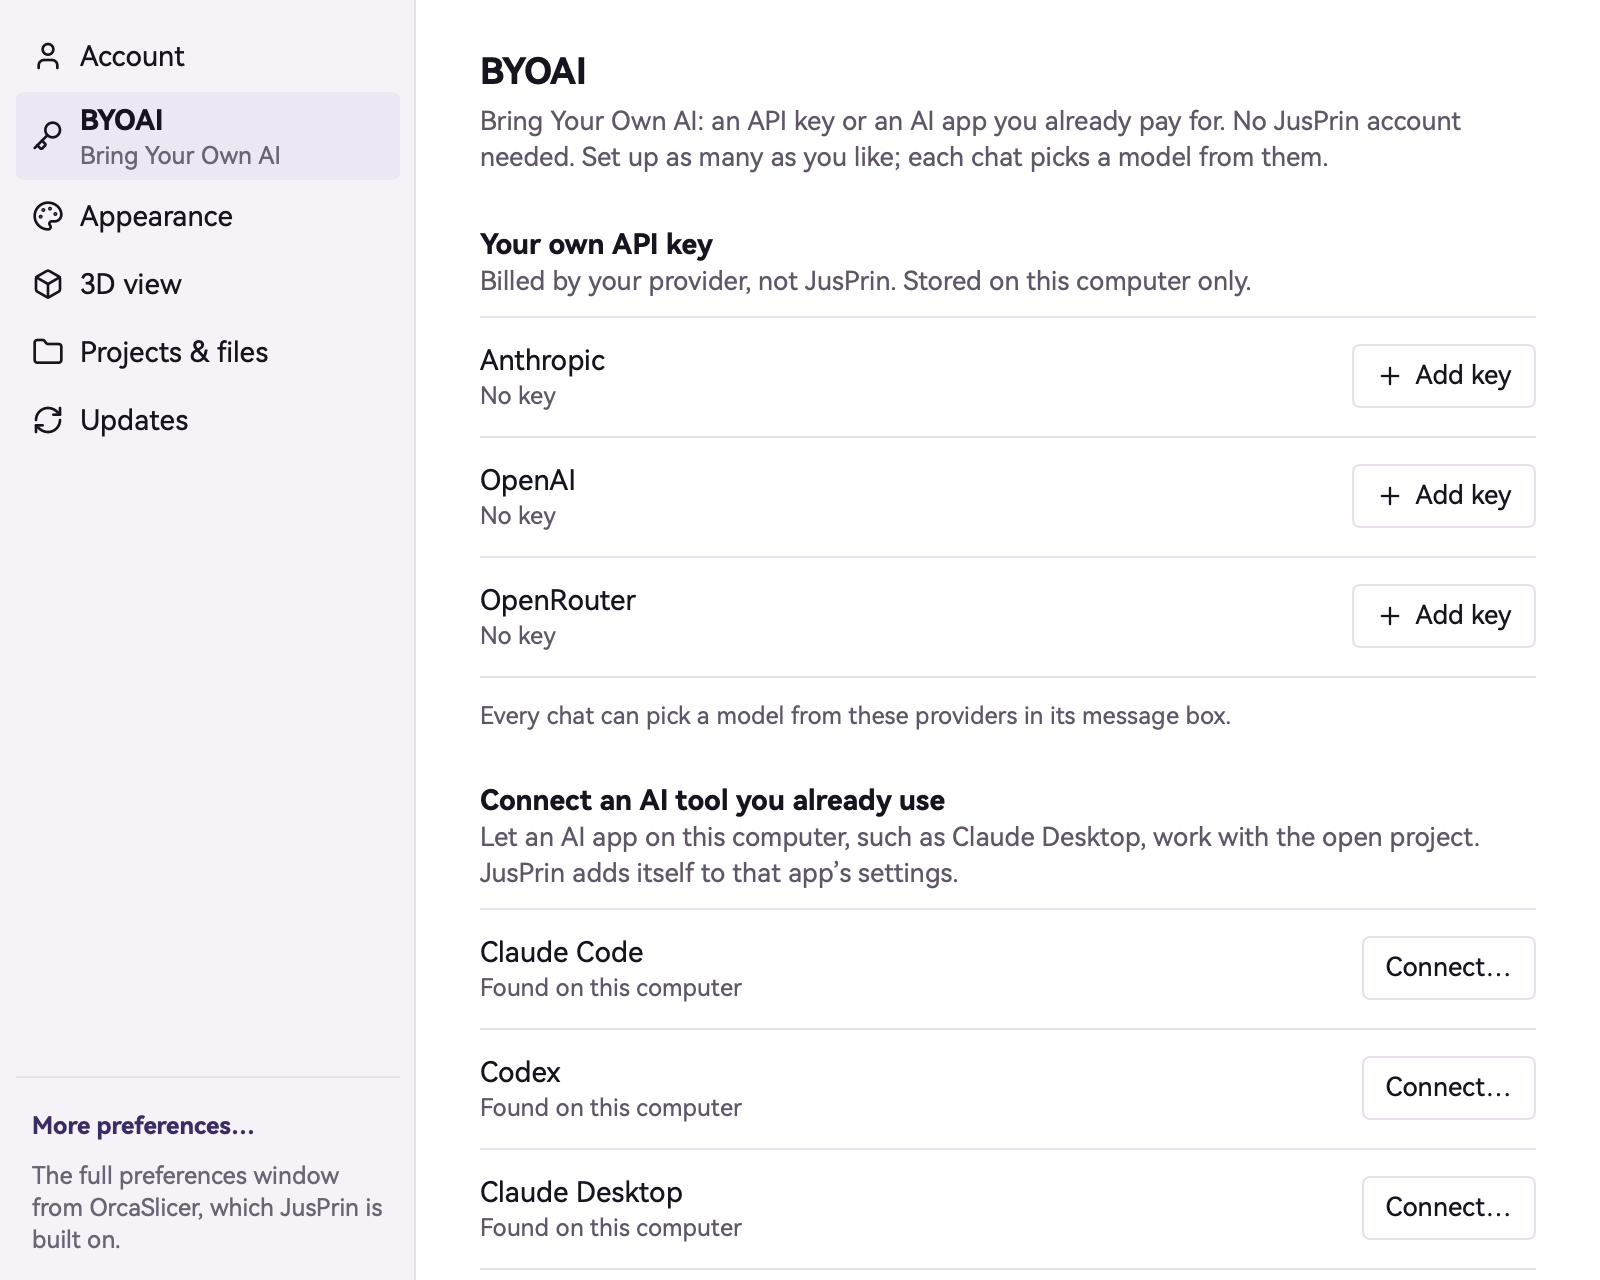
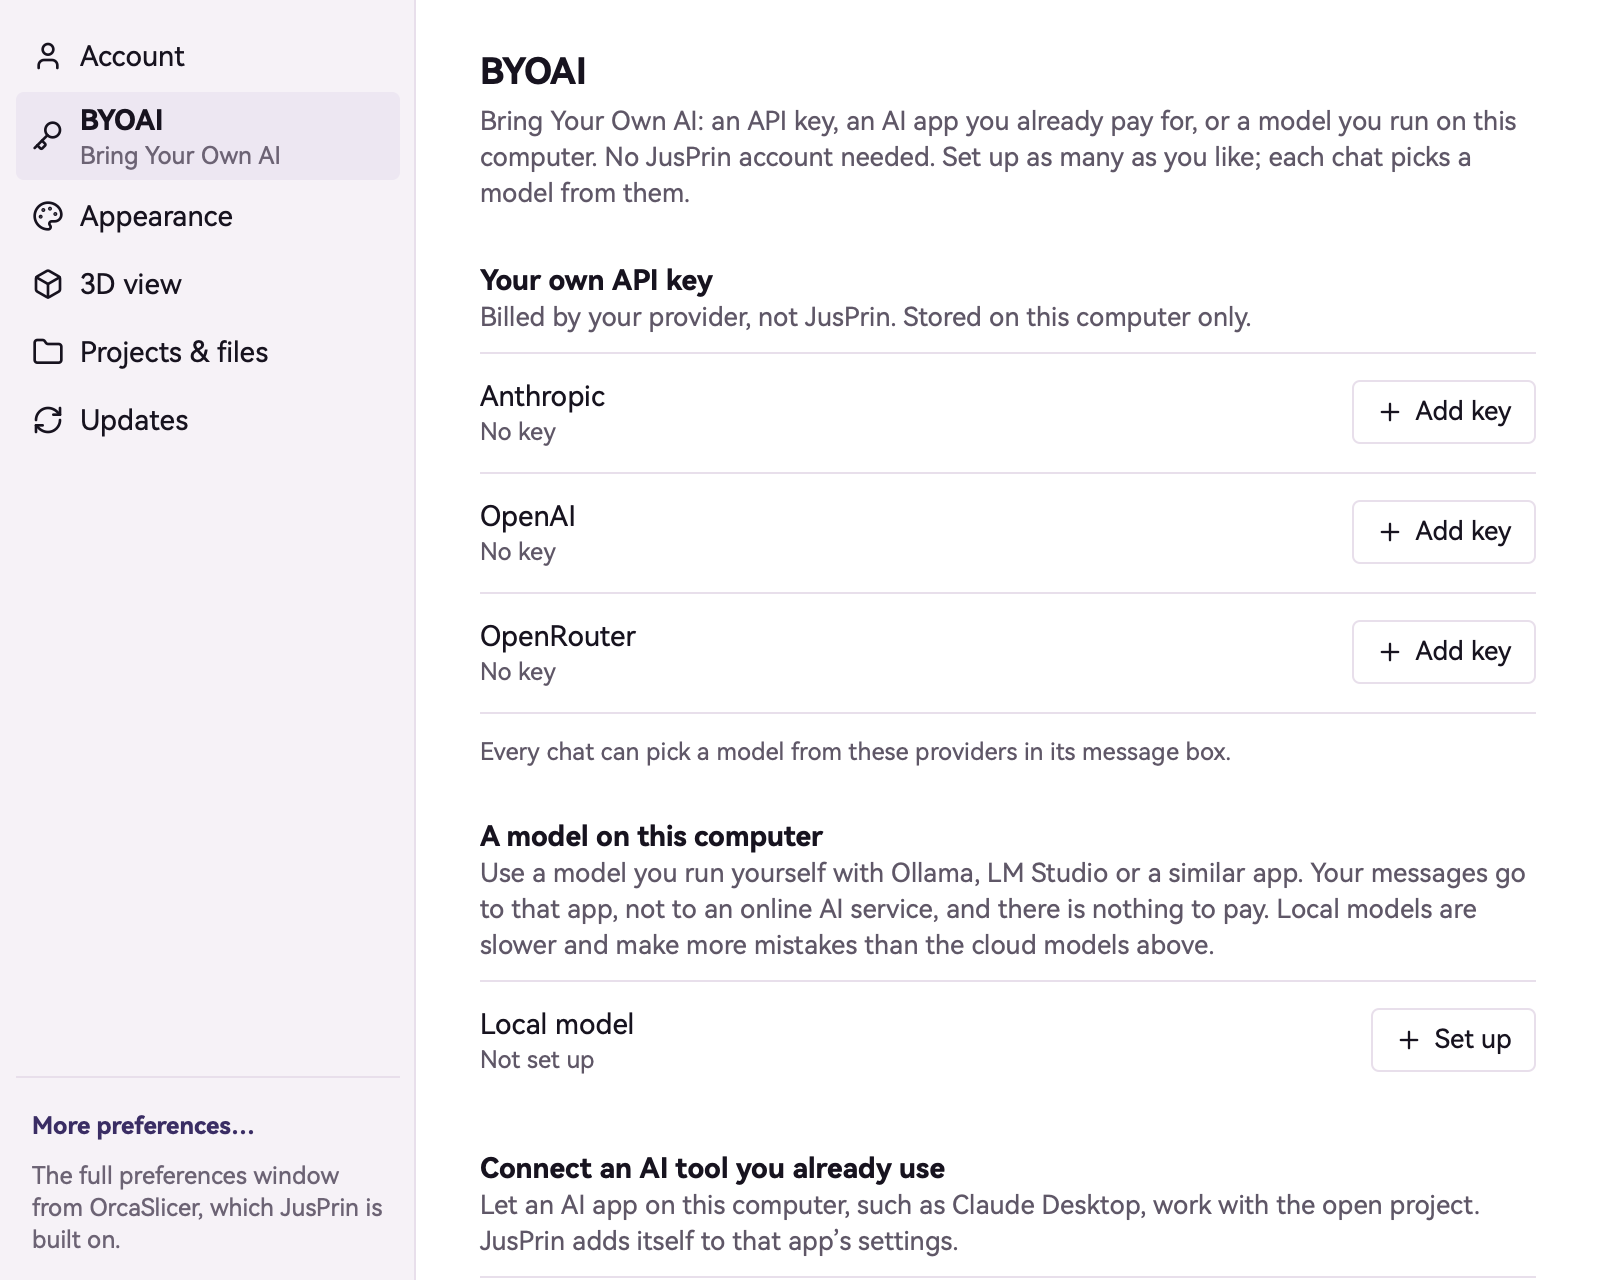
JusPrin 2.1.0
Set the version to 2.1.0 and add its release notes. Kenneth chose the
version ("let's tag this release as 2.1.0") and approved the notes ("go
with your proposed release notes"; for the two local-model lines,
"Approve both").

The guide's printer page now names the fields the printer chat's form
asks for when connecting Flashforge, PrusaLink and Repetier printers, and
says that switching printer or filament drops the project's setting
changes after saving a version. The guide-printers-and-filament skill and
the pictures were rebuilt by check_guide.py --ask-ai, which passed for
2.1.0. The translation catalogs were already current.

Entire-Checkpoint: 01M8CAN7PT1C47D1J0D2CPJ0NS

diff --git a/src/slic3r/GUI/JusPrin/Updates/Version.hpp b/src/slic3r/GUI/JusPrin/Updates/Version.hpp
@@ -11,7 +11,7 @@ namespace Slic3r::GUI::JusPrin::Updates {
 // from SoftFever_VERSION, OrcaSlicer's version, which this build keeps
 // because 3MF projects, profile updates, the user_backup-v<version> folder
 // and AppConfig's upgrade logic all read it.
-inline constexpr char kVersion[] = "2.0.1";
+inline constexpr char kVersion[] = "2.1.0";
 
 // The version a problem report or a saved chat names: JusPrin's and the
 // OrcaSlicer release it is built on, as "JusPrin 2.0.0 (OrcaSlicer 2.5.0)".

diff --git a/src/slic3r/GUI/JusPrin/Packaging/release-notes/2.1.0.md b/src/slic3r/GUI/JusPrin/Packaging/release-notes/2.1.0.md
@@ -1,0 +1,42 @@
+JusPrin 2.1.0 can run its AI chats on a model on your own computer, lets AI add holes and parts to your models, and tells you clearly what to do when your own AI account refuses a request.
+
+## New
+
+- **AI on your own computer.** Chats can run on a model in Ollama or LM Studio, with no account and no credits. Set it up in Preferences › BYOAI › A model on this computer: press Find models, pick one, and press Use this model. JusPrin checks that the model can use the app's tools and has a context of at least 32k. It then shows under "On this computer" in each chat's model menu. Web search is not available for these chats, and a model that cannot see pictures is sent none. When Ollama or LM Studio refuses, for example because the model was deleted, JusPrin shows its words.
+- **AI can add holes and parts.** Ask AI for a screw hole, a slot, a peg or a lip, and it adds boxes or cylinders to your object, as solid parts or as holes. One Undo removes them. Asked for text or a logo, AI gives you the steps to add it yourself; a logo must be an SVG file.
+- **AI can change your printer's hardware settings,** such as the bed size, the nozzle and the number of extruders. Before, it told you to change them by hand.
+- **More printers connect from the printer chat.** For a Flashforge printer in LAN Only mode, PrusaLink with a user name and password, or Repetier, the chat opens a form that asks for the serial number, access code, login or printer name. What you type goes only to the printer; AI does not see it. Only UltiMaker still has to be set up in the printer settings window.
+- **Home tells you when a new version is out.** A card at the top of Home's right column says which version is available. See what's new shows the release notes, Open download page opens the download page, and you can choose Remind me tomorrow or Skip this version.
+- **OrcaSlicer's message boxes go into the chat.** In the JusPrin view, messages such as a failed printer connection or a refused print job now show in the project's chat instead of in a box over the app. Switching printer, filament or process while settings are changed no longer asks "Transfer or discard changes": JusPrin saves a version of the project first, so Version history keeps your changes, and the chat says which profiles the settings now follow.
+- **Clearer messages when your own AI account refuses.** With your own key for OpenAI, OpenRouter or Anthropic, JusPrin now says when the account is out of credits, when the key is not allowed, or when the chat is too long for the model. When the service explains a refusal itself, JusPrin shows its words, for example "OpenRouter says: …". When the service is down or overloaded, JusPrin says the service is having trouble right now, instead of "Something went wrong on our side".
+- **About 200 more sentences are translated,** including the titles of AI's actions in the chat, setting values in the Changes list, and the printer chat's first message.
+
+## Fixed
+
+- On Windows, quitting JusPrin crashed when error reports were turned on.
+- On Windows in German and other languages, Ask AI about filament settings opened an empty chat with "Something went wrong on our side".
+- On Windows in French, Spanish or Portuguese, a chat whose title had an accented letter, such as "Problème", failed to send.
+- A chat whose reply stopped during a web search could not be continued: every next message failed.
+- When AI switched to another printer with more filaments than that printer takes, the printer was switched and then the setup failed half done. It is now refused before anything changes.
+- AI could end a chat with "cannot run (invalid_arguments)" after writing a note that was too long. It is now told which text was too long and the limit, and shortens it.
+- Import printers from OrcaSlicer stayed on "Importing…" with every button greyed out after Cancel on the unsaved-changes question.
+- On Linux with Wayland and an Intel graphics card, the Preview, Device and Project tabs could freeze.
+- On Windows, when the 3D view could not start OpenGL, JusPrin could crash or show an empty 3D view. It now says which graphics card it found and what to check.
+- In Preferences › BYOAI, when connecting an outside AI app such as Claude Code failed, the message gave no next step. It now says to copy the command and run it yourself, with a Copy button.
+- Many messages written for AI were shown to you instead, such as "A hello handshake is required". Typing a message and then opening an earlier chat lost what you typed. Resume on an earlier chat failed after a slice. "Revert to here" opened a "Revert failed" window, and pressing the slice button twice opened "Couldn't slice".
+- A picture in a format AI cannot read, such as a HEIC phone photo renamed to .jpg, is now refused when you attach it, with "This file type can't be read by AI."
+- A project whose chats were saved by a newer JusPrin now says so in the chat, instead of showing no chats.
+
+## What JusPrin now sends
+
+- **Error reports and crashes** now carry your JusPrin account number when you are signed in, or else the random number this install made on its first start, so we can tell how many people a problem hits. Your email is not sent. Reports are still sent only when you press Report to JusPrin team, or when you have turned on automatic reports.
+- **A chat on a model on your computer** is sent only to the address you entered in Preferences, including the request that names the chat.
+
+## Downloads
+
+- **Windows (64-bit):** the installer, or the portable .zip, which runs without installing.
+- **Mac:** one disk image for Macs with Apple silicon and Intel Macs.
+- **Linux (64-bit):** an AppImage, built on Ubuntu 24.04. Make the file executable, then run it.
+- **SHA256SUMS.txt** lists each file's checksum.
+
+Questions or problems: write to jusprin-support@obico.io, or use Help › Report a problem in the app.

diff --git a/src/slic3r/GUI/JusPrin/AgentUI/src/skills/guide-printers-and-filament/SKILL.md b/src/slic3r/GUI/JusPrin/AgentUI/src/skills/guide-printers-and-filament/SKILL.md
@@ -23,6 +23,8 @@ The printer's menu has:
 - **OTHER PRINTERS**: click one to slice the project for that printer instead.
 - **Printer settings…**, **Ask AI about printer settings…**, **Calibrate…** and **Add a printer…**.
 
+Picking another printer or filament while the project has setting changes of its own drops those changes: the settings then follow the new printer's or filament's presets. JusPrin first saves a version of the project, so **Version history** in the **File** menu still has them, and the chat says which presets the settings now follow.
+
 When a project file brought its own printer, the printer is marked **From the file · not one of your printers**.
 
 ## Choose the filament and its colour
@@ -55,7 +57,7 @@ If you skipped choosing a printer the first time JusPrin started, it uses a stan
 Connecting a printer lets JusPrin send prints to it and show how it is doing. JusPrin connects Bambu Lab printers, and printers it reaches at an address on your network, such as Klipper printers through Moonraker, OctoPrint, PrusaLink and Elegoo Link.
 
 1. On Home, click **Connect…** on the printer's card, or open the card's menu (**Printer actions**) and choose **Connect…**.
-2. The printer's chat asks for what it needs, such as its address. A Bambu Lab printer also needs its **Access code**, and a print host may need its **API key**. These stay on this computer.
+2. The printer's chat asks for what it needs, such as its address. A Bambu Lab printer also needs its **Access code**, and a print host may need its **API key**. A Flashforge printer in LAN Only mode needs its **Serial number** and **Access code**, PrusaLink set up with a login needs its **User name** and **Password**, and Repetier needs the **Printer name on Repetier Server**. The chat asks for these in a form, and the printer is tested when you click **Connect**. What you type goes only to the printer, and stays on this computer.
 3. **Help me find the code** explains where to find it on the printer.
 
 A Bambu Lab printer needs Bambu's network plug-in. The chat says so when it is missing.

diff --git a/docs/guide/printers-and-filament.md b/docs/guide/printers-and-filament.md
@@ -24,6 +24,8 @@ The printer's menu has:
 
 ![The printer's menu, with the printer's state, Nozzle, Plate, the other printers and the settings commands](pictures/printers-and-filament/printer-menu.png)
 
+Picking another printer or filament while the project has setting changes of its own drops those changes: the settings then follow the new printer's or filament's presets. JusPrin first saves a version of the project, so **Version history** in the **File** menu still has them, and the chat says which presets the settings now follow.
+
 When a project file brought its own printer, the printer is marked **From the file · not one of your printers**.
 
 ## Choose the filament and its colour
@@ -58,7 +60,7 @@ If you skipped choosing a printer the first time JusPrin started, it uses a stan
 Connecting a printer lets JusPrin send prints to it and show how it is doing. JusPrin connects Bambu Lab printers, and printers it reaches at an address on your network, such as Klipper printers through Moonraker, OctoPrint, PrusaLink and Elegoo Link.
 
 1. On Home, click **Connect…** on the printer's card, or open the card's menu (**Printer actions**) and choose **Connect…**.
-2. The printer's chat asks for what it needs, such as its address. A Bambu Lab printer also needs its **Access code**, and a print host may need its **API key**. These stay on this computer.
+2. The printer's chat asks for what it needs, such as its address. A Bambu Lab printer also needs its **Access code**, and a print host may need its **API key**. A Flashforge printer in LAN Only mode needs its **Serial number** and **Access code**, PrusaLink set up with a login needs its **User name** and **Password**, and Repetier needs the **Printer name on Repetier Server**. The chat asks for these in a form, and the printer is tested when you click **Connect**. What you type goes only to the printer, and stays on this computer.
 3. **Help me find the code** explains where to find it on the printer.
 
 A Bambu Lab printer needs Bambu's network plug-in. The chat says so when it is missing.
